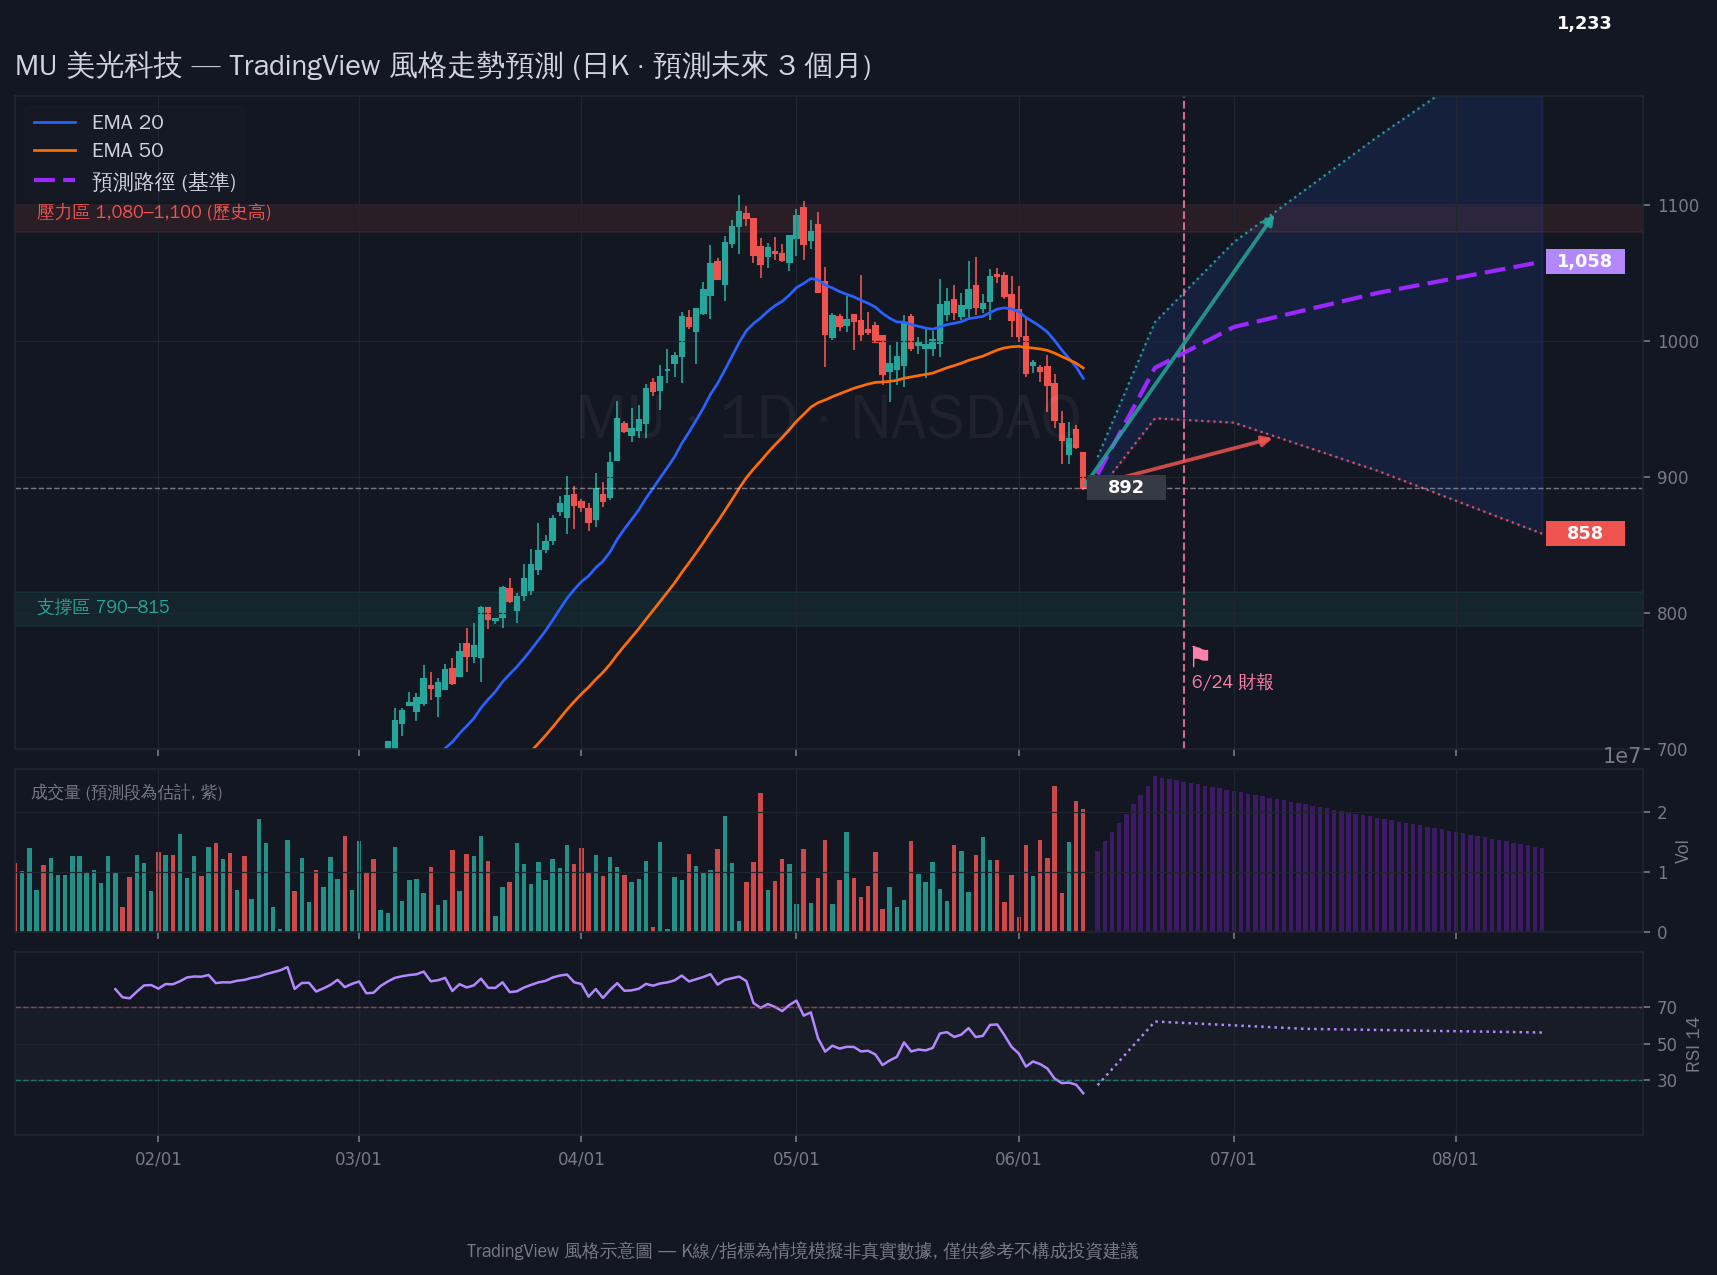
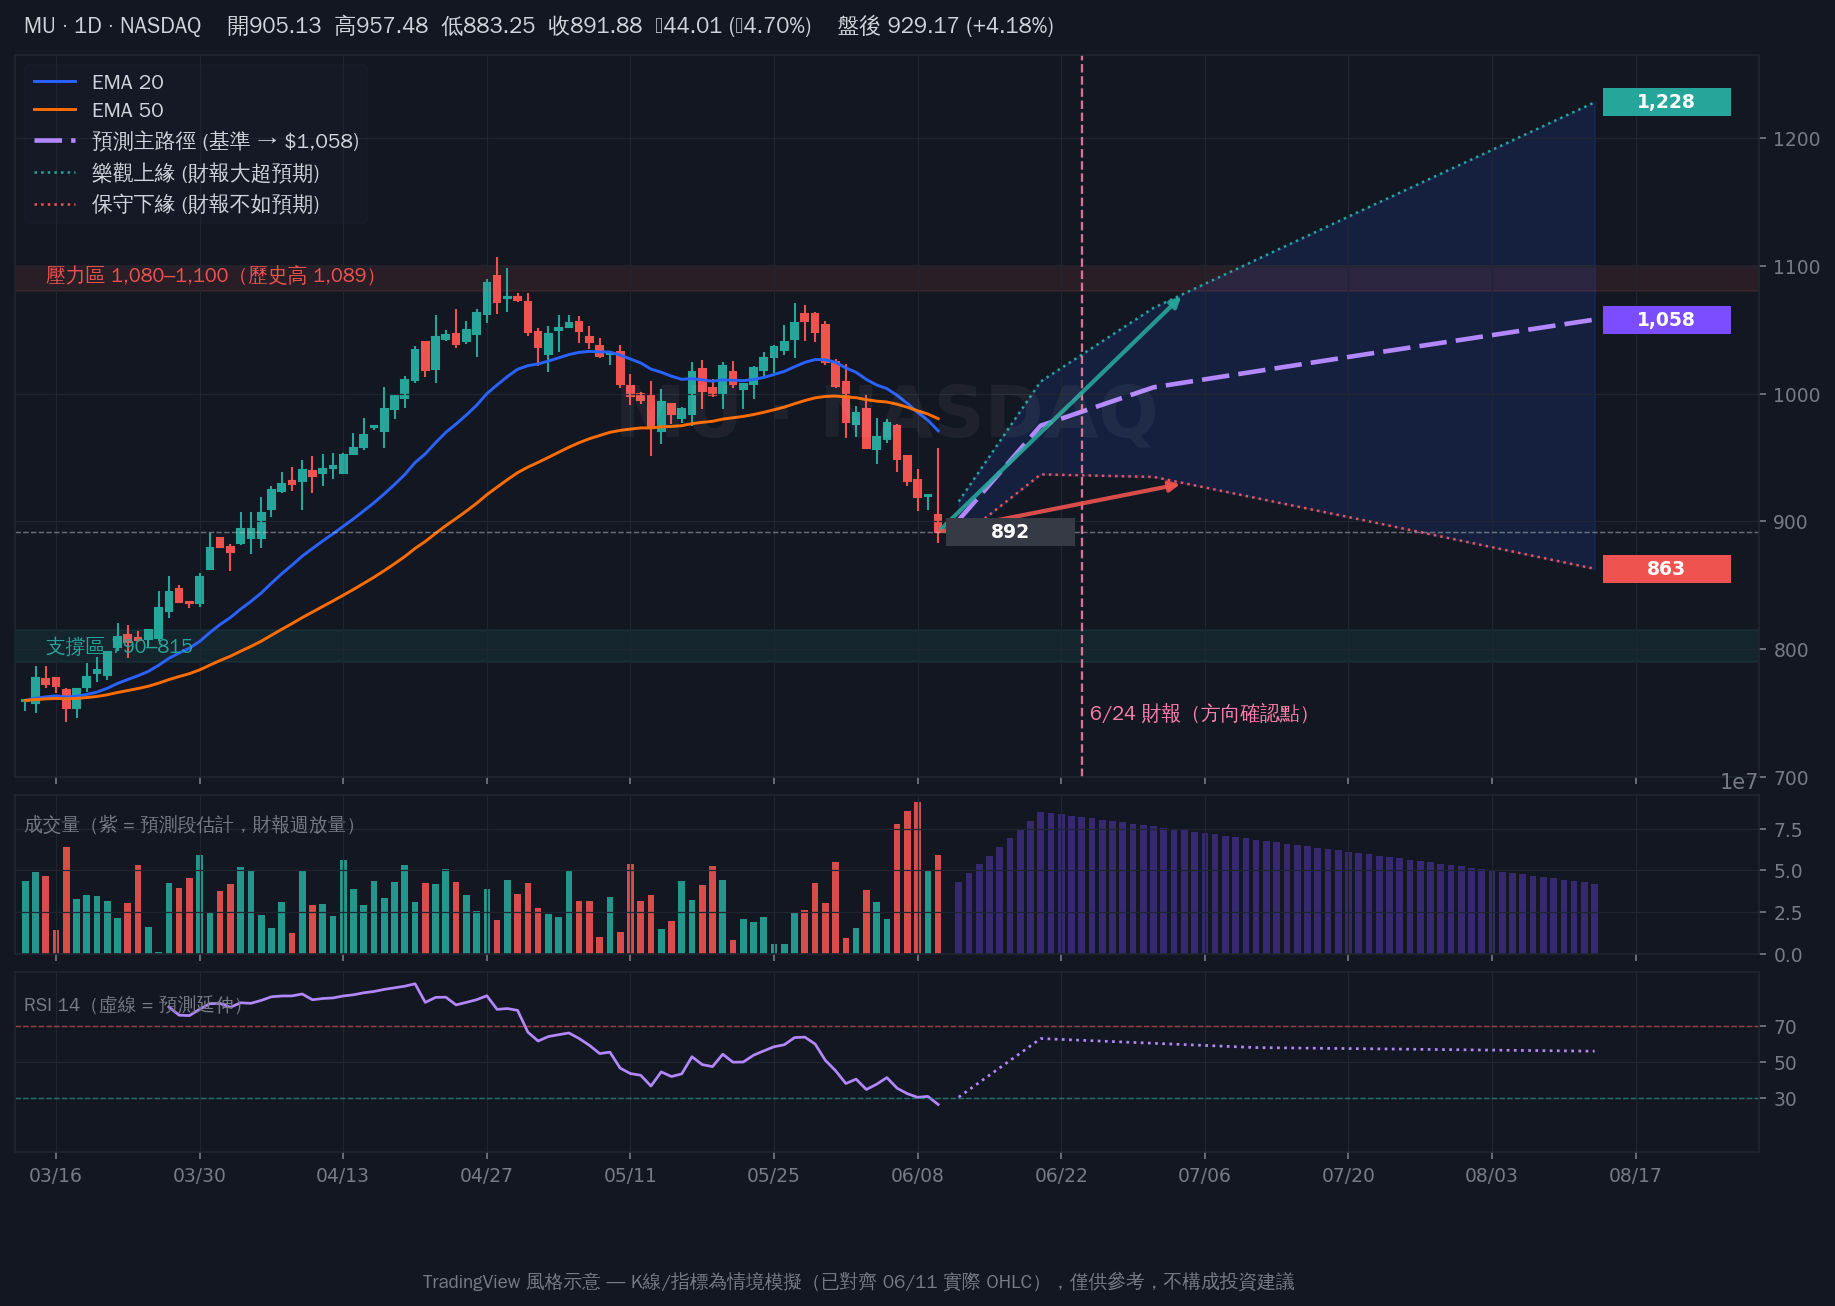
Improve TradingView-style chart: OHLC info bar, aligned to actual 06/11 data, clearer projection cone
https://claude.ai/code/session_017kWTyHSnSZPHuG8oZynbm9

diff --git a/forecast_mu_tradingview.py b/forecast_mu_tradingview.py
@@ -1,167 +1,157 @@
 # -*- coding: utf-8 -*-
-"""MU 美光科技 — TradingView 風格 走勢預測圖
-   日K蠟燭 + EMA20/50 + 成交量 + RSI + 預測投影(forecast projection)"""
+"""MU 美光科技 — TradingView 風格走勢預測 v2
+   日K + EMA20/50 + 成交量 + RSI + 預測投影錐 + OHLC資訊列"""
 import numpy as np
 import matplotlib
 matplotlib.use("Agg")
 import matplotlib.pyplot as plt
 import matplotlib.dates as mdates
-from matplotlib.patches import Rectangle, FancyArrow, Polygon
+from matplotlib.patches import Rectangle
 from matplotlib.font_manager import FontProperties
 from datetime import datetime, timedelta
 
 zh = FontProperties(fname="/usr/share/fonts/truetype/wqy/wqy-zenhei.ttc")
 
-# ===== TradingView 配色 =====
-BG     = "#131722"   # 背景
-GRID   = "#1f2630"
-UP     = "#26a69a"   # 漲(綠)
-DOWN   = "#ef5350"   # 跌(紅)
-TXT    = "#d1d4dc"
-SUB    = "#787b86"
-EMA20C = "#2962ff"
-EMA50C = "#ff6d00"
+BG, GRID = "#131722", "#1f2630"
+UP, DOWN = "#26a69a", "#ef5350"
+TXT, SUB = "#d1d4dc", "#787b86"
 
-# ===== 1) 生成歷史日K (近 ~150 交易日, 還原到現價 891.88) =====
+# ===== 歷史日K: 近 90 個交易日, 收斂到實際數據 (高1089 -> 現價891.88) =====
 np.random.seed(11)
-n_hist = 150
+n_hist = 90
 today = datetime(2026, 6, 11)
 hist_dates = [today - timedelta(days=(n_hist - i)) for i in range(n_hist)]
-# 基準路徑: 從 ~480 漲到歷史高 1089 再回落到 891.88
-ax_x = [0, 40, 75, 100, 120, 135, 149]
-ax_y = [470, 640, 860, 1089, 980, 1040, 891.88]
+ax_x = [0, 25, 45, 60, 75, 89]
+ax_y = [760, 920, 1089, 980, 1040, 891.88]
 mid = np.interp(np.arange(n_hist), ax_x, ax_y)
 close = np.zeros(n_hist); close[0] = mid[0]
 for i in range(1, n_hist):
-    drift = (mid[i] - close[i-1]) * 0.35
-    close[i] = close[i-1] + drift + np.random.normal(0, mid[i]*0.012)
+    close[i] = close[i-1] + (mid[i] - close[i-1]) * 0.4 + np.random.normal(0, mid[i] * 0.011)
 close[-1] = 891.88
-op = np.concatenate([[close[0]], close[:-1]]) + np.random.normal(0, 4, n_hist)
-hi = np.maximum(op, close) + np.abs(np.random.normal(0, mid*0.010))
-lo = np.minimum(op, close) - np.abs(np.random.normal(0, mid*0.010))
-vol = np.abs(np.random.normal(1, 0.4, n_hist)) * 1e7
-vol[-6:] *= 1.8  # 近期放量
+op = np.concatenate([[close[0]], close[:-1]]) + np.random.normal(0, 3.5, n_hist)
+op[-1] = 905.13                                   # 今開 (對齊截圖)
+hi = np.maximum(op, close) + np.abs(np.random.normal(0, mid * 0.009))
+lo = np.minimum(op, close) - np.abs(np.random.normal(0, mid * 0.009))
+hi[-1], lo[-1] = 957.48, 883.25                    # 今日最高/最低 (對齊截圖)
+vol = np.abs(np.random.normal(1, 0.4, n_hist)) * 3.5e7
+vol[-5:] *= 1.7
 
-# ===== 2) 預測投影 (未來 ~63 交易日 ≈ 3個月) =====
+# ===== 預測投影 (未來 63 交易日 ≈ 3個月) =====
 n_fut = 63
-fut_dates = [today + timedelta(days=i+1) for i in range(n_fut)]
+fut_dates = [today + timedelta(days=i + 1) for i in range(n_fut)]
 ff = np.arange(1, n_fut + 1)
 p0 = 891.88
-# TradingView forecast: 主預測路徑 + 上下緣(信賴帶)
-main = np.interp(ff, [0, 9, 20, 40, 63], [p0, 980, 1010, 1035, 1058])
-up_band  = main + np.interp(ff, [0, 63], [10, 175])   # 漸開的上緣
-dn_band  = main - np.interp(ff, [0, 63], [10, 200])   # 漸開的下緣
+main = np.interp(ff, [0, 9, 20, 40, 63], [p0, 975, 1005, 1030, 1058])
+up_b = main + np.interp(ff, [0, 63], [12, 170])
+dn_b = main - np.interp(ff, [0, 63], [12, 195])
 
-# ===== 指標: EMA & RSI (用 close) =====
 def ema(a, span):
-    k = 2/(span+1); out = np.zeros_like(a); out[0] = a[0]
-    for i in range(1, len(a)): out[i] = a[i]*k + out[i-1]*(1-k)
-    return out
-ema20 = ema(close, 20); ema50 = ema(close, 50)
+    k = 2 / (span + 1); o = np.zeros_like(a); o[0] = a[0]
+    for i in range(1, len(a)): o[i] = a[i] * k + o[i-1] * (1 - k)
+    return o
+ema20, ema50 = ema(close, 20), ema(close, 50)
+
 def rsi(a, n=14):
-    d = np.diff(a); g = np.where(d>0,d,0); l = np.where(d<0,-d,0)
+    d = np.diff(a); g = np.where(d > 0, d, 0); l = np.where(d < 0, -d, 0)
     ag = np.zeros_like(a); al = np.zeros_like(a)
     ag[n] = g[:n].mean(); al[n] = l[:n].mean()
-    for i in range(n+1, len(a)):
-        ag[i] = (ag[i-1]*(n-1)+g[i-1])/n; al[i] = (al[i-1]*(n-1)+l[i-1])/n
-    rs = ag/np.where(al==0,1e-9,al); r = 100-100/(1+rs); r[:n]=np.nan; return r
+    for i in range(n + 1, len(a)):
+        ag[i] = (ag[i-1] * (n-1) + g[i-1]) / n
+        al[i] = (al[i-1] * (n-1) + l[i-1]) / n
+    r = 100 - 100 / (1 + ag / np.where(al == 0, 1e-9, al)); r[:n] = np.nan
+    return r
 rsi14 = rsi(close)
 
-# ===== 繪圖框架 =====
-fig = plt.figure(figsize=(14, 9), dpi=150)
+# ===== 版面 =====
+fig = plt.figure(figsize=(15, 9.5), dpi=150)
 fig.patch.set_facecolor(BG)
-gs = fig.add_gridspec(3, 1, height_ratios=[3.2, 0.8, 0.9], hspace=0.06)
-axP = fig.add_subplot(gs[0]); axV = fig.add_subplot(gs[1], sharex=axP); axR = fig.add_subplot(gs[2], sharex=axP)
+gs = fig.add_gridspec(3, 1, height_ratios=[3.4, 0.75, 0.85], hspace=0.05)
+axP = fig.add_subplot(gs[0])
+axV = fig.add_subplot(gs[1], sharex=axP)
+axR = fig.add_subplot(gs[2], sharex=axP)
 for a in (axP, axV, axR):
-    a.set_facecolor(BG)
-    a.grid(color=GRID, lw=0.6)
-    a.tick_params(colors=SUB, labelsize=8)
+    a.set_facecolor(BG); a.grid(color=GRID, lw=0.6)
+    a.tick_params(colors=SUB, labelsize=9)
     for s in a.spines.values(): s.set_color(GRID)
     a.yaxis.tick_right(); a.yaxis.set_label_position("right")
 
-xh = mdates.date2num(hist_dates)
-xf = mdates.date2num(fut_dates)
-cw = 0.62
+xh, xf = mdates.date2num(hist_dates), mdates.date2num(fut_dates)
+cw = 0.65
 
-# --- 蠟燭 ---
 for xi, o, c, h, l in zip(xh, op, close, hi, lo):
     col = UP if c >= o else DOWN
-    axP.vlines(xi, l, h, color=col, lw=0.8)
-    axP.add_patch(Rectangle((xi-cw/2, min(o,c)), cw, abs(c-o) or 0.4, facecolor=col, edgecolor=col))
+    axP.vlines(xi, l, h, color=col, lw=1.0)
+    axP.add_patch(Rectangle((xi - cw/2, min(o, c)), cw, abs(c - o) or 0.5, facecolor=col, edgecolor=col))
 
-# --- EMA ---
-axP.plot(xh, ema20, color=EMA20C, lw=1.3, label="EMA 20")
-axP.plot(xh, ema50, color=EMA50C, lw=1.3, label="EMA 50")
+axP.plot(xh, ema20, color="#2962ff", lw=1.4, label="EMA 20")
+axP.plot(xh, ema50, color="#ff6d00", lw=1.4, label="EMA 50")
 
-# --- 預測投影帶 (forecast cone) ---
-axP.fill_between(xf, dn_band, up_band, color="#2962ff", alpha=0.12, zorder=1)
-axP.plot(xf, main, color="#9c27ff", lw=2.0, ls=(0,(5,2)), label="預測路徑 (基準)")
-axP.plot(xf, up_band, color=UP, lw=1.1, ls=":", alpha=0.9)
-axP.plot(xf, dn_band, color=DOWN, lw=1.1, ls=":", alpha=0.9)
-# 預測終點標籤 (TradingView 價籤樣式)
-for y, col in [(up_band[-1], UP), (main[-1], "#b388ff"), (dn_band[-1], DOWN)]:
-    axP.add_patch(Rectangle((xf[-1]+0.5, y-9), 11, 18, facecolor=col, edgecolor="none", zorder=5))
-    axP.text(xf[-1]+6, y, f"{y:,.0f}", color="#fff", fontsize=8.5, ha="center", va="center", zorder=6, fontweight="bold")
+# 預測錐
+axP.fill_between(xf, dn_b, up_b, color="#2962ff", alpha=0.13, zorder=1)
+axP.plot(xf, main, color="#b388ff", lw=2.2, ls=(0, (6, 2)), label="預測主路徑 (基準 → $1,058)")
+axP.plot(xf, up_b, color=UP, lw=1.2, ls=":", label="樂觀上緣 (財報大超預期)")
+axP.plot(xf, dn_b, color=DOWN, lw=1.2, ls=":", label="保守下緣 (財報不如預期)")
 
-# --- 預測分歧箭頭 (TradingView projection tool 風格) ---
-axP.annotate("", xy=(xf[25], up_band[25]), xytext=(xh[-1], close[-1]),
-             arrowprops=dict(arrowstyle="-|>", color=UP, lw=1.8, alpha=0.85))
-axP.annotate("", xy=(xf[25], dn_band[25]), xytext=(xh[-1], close[-1]),
-             arrowprops=dict(arrowstyle="-|>", color=DOWN, lw=1.8, alpha=0.85))
+# 多空分歧箭頭
+axP.annotate("", xy=(xf[22], up_b[22]), xytext=(xh[-1], close[-1]),
+             arrowprops=dict(arrowstyle="-|>", color=UP, lw=2.0, alpha=0.9))
+axP.annotate("", xy=(xf[22], dn_b[22]), xytext=(xh[-1], close[-1]),
+             arrowprops=dict(arrowstyle="-|>", color=DOWN, lw=2.0, alpha=0.9))
 
-# --- 現價線 + 標籤 ---
-axP.axhline(p0, color=TXT, lw=0.7, ls="--", alpha=0.5)
-axP.add_patch(Rectangle((xh[-1]+0.5, p0-9), 11, 18, facecolor="#363a45", edgecolor="none", zorder=5))
-axP.text(xh[-1]+6, p0, f"{p0:,.0f}", color="#fff", fontsize=8.5, ha="center", va="center", zorder=6, fontweight="bold")
+# 價籤
+def tag(axx, y, col, x_):
+    axP.add_patch(Rectangle((x_ + 0.8, y - 11), 12.5, 22, facecolor=col, edgecolor="none", zorder=5))
+    axP.text(x_ + 7, y, f"{y:,.0f}", color="#fff", fontsize=9, ha="center", va="center",
+             zorder=6, fontweight="bold")
+for y, col in [(up_b[-1], UP), (main[-1], "#7c4dff"), (dn_b[-1], DOWN)]:
+    tag(axP, y, col, xf[-1])
+axP.axhline(p0, color=TXT, lw=0.7, ls="--", alpha=0.45)
+tag(axP, p0, "#363a45", xh[-1])
 
-# --- 支撐壓力區 (TradingView 矩形區間) ---
+# 支撐 / 壓力區
 axP.axhspan(1080, 1100, color=DOWN, alpha=0.10)
-axP.text(xh[3], 1090, "壓力區 1,080–1,100 (歷史高)", color=DOWN, fontsize=8.5, fontproperties=zh)
+axP.text(xh[2], 1088, "壓力區 1,080–1,100（歷史高 1,089）", color=DOWN, fontsize=9.5, fontproperties=zh)
 axP.axhspan(790, 815, color=UP, alpha=0.10)
-axP.text(xh[3], 800, "支撐區 790–815", color=UP, fontsize=8.5, fontproperties=zh)
+axP.text(xh[2], 798, "支撐區 790–815", color=UP, fontsize=9.5, fontproperties=zh)
 
-# --- 財報事件標記 ---
+# 財報事件
 earn = mdates.date2num(datetime(2026, 6, 24))
-axP.axvline(earn, color="#ff80ab", lw=1.0, ls="--", alpha=0.8)
-axP.text(earn+0.4, 760, "⚑", color="#ff80ab", fontsize=14)
-axP.text(earn+1.2, 745, "6/24 財報", color="#ff80ab", fontsize=8.5, fontproperties=zh)
+axP.axvline(earn, color="#ff80ab", lw=1.1, ls="--", alpha=0.85)
+axP.text(earn + 0.8, 745, "6/24 財報（方向確認點）", color="#ff80ab", fontsize=9.5, fontproperties=zh)
 
-# --- 浮水印 (TradingView 風格) ---
-axP.text(0.5, 0.5, "MU · 1D · NASDAQ", transform=axP.transAxes, fontproperties=zh,
-         fontsize=30, color="#ffffff", alpha=0.05, ha="center", va="center", fontweight="bold")
-axP.set_title("MU 美光科技 — TradingView 風格走勢預測 (日K · 預測未來 3 個月)",
-              fontproperties=zh, color=TXT, fontsize=14, pad=10, loc="left")
-axP.legend(loc="upper left", prop=zh, fontsize=9, framealpha=0.2,
+# OHLC 資訊列 (TradingView 頂欄)
+info = ("MU · 1D · NASDAQ    開905.13  高957.48  低883.25  收891.88  −44.01 (−4.70%)    盤後 929.17 (+4.18%)")
+axP.text(0.005, 1.025, info, transform=axP.transAxes, fontproperties=zh, fontsize=10.5,
+         color=TXT, va="bottom")
+axP.text(0.5, 0.5, "MU · NASDAQ", transform=axP.transAxes, fontsize=34,
+         color="#fff", alpha=0.05, ha="center", va="center", fontweight="bold")
+axP.legend(loc="upper left", prop=zh, fontsize=9.5, framealpha=0.25,
            facecolor="#1c2230", edgecolor=GRID, labelcolor=TXT)
-axP.set_ylim(700, 1180)
+axP.set_ylim(700, 1265)
 
-# --- 成交量 ---
-vcol = [UP if c>=o else DOWN for o,c in zip(op, close)]
-axV.bar(xh, vol, width=cw, color=vcol, alpha=0.85)
-axV.bar(xf, np.interp(ff,[0,9,63],[1.2e7,2.6e7,1.4e7]), width=cw, color="#9c27ff", alpha=0.30)  # 預測量(虛)
-axV.set_ylabel("Vol", fontproperties=zh, color=SUB, fontsize=9)
-axV.text(0.01, 0.82, "成交量 (預測段為估計, 紫)", transform=axV.transAxes, fontproperties=zh, color=SUB, fontsize=8)
+# 成交量
+vcol = [UP if c >= o else DOWN for o, c in zip(op, close)]
+axV.bar(xh, vol, width=cw, color=vcol, alpha=0.9)
+axV.bar(xf, np.interp(ff, [0, 9, 63], [3.8e7, 8.5e7, 4.2e7]), width=cw, color="#7c4dff", alpha=0.35)
+axV.text(0.005, 0.78, "成交量（紫 = 預測段估計，財報週放量）", transform=axV.transAxes,
+         fontproperties=zh, color=SUB, fontsize=9)
 
-# --- RSI ---
-axR.plot(xh, rsi14, color="#b388ff", lw=1.2)
-# RSI 預測延伸
-rsi_fut = np.interp(ff, [0,9,30,63], [rsi14[-1], 62, 58, 56])
-axR.plot(xf, rsi_fut, color="#b388ff", lw=1.2, ls=":")
+# RSI
+axR.plot(xh, rsi14, color="#b388ff", lw=1.3)
+axR.plot(xf, np.interp(ff, [0, 9, 30, 63], [rsi14[-1], 63, 58, 56]), color="#b388ff", lw=1.3, ls=":")
 axR.axhline(70, color=DOWN, lw=0.7, ls="--", alpha=0.6)
 axR.axhline(30, color=UP, lw=0.7, ls="--", alpha=0.6)
-axR.axhspan(30, 70, color="#787b86", alpha=0.05)
-axR.set_ylim(0, 100); axR.set_yticks([30,50,70])
-axR.set_ylabel("RSI 14", fontproperties=zh, color=SUB, fontsize=9)
+axR.set_ylim(0, 100); axR.set_yticks([30, 50, 70])
+axR.text(0.005, 0.78, "RSI 14（虛線 = 預測延伸）", transform=axR.transAxes,
+         fontproperties=zh, color=SUB, fontsize=9)
 
-# --- X 軸 ---
 axR.xaxis.set_major_formatter(mdates.DateFormatter("%m/%d"))
-axR.xaxis.set_major_locator(mdates.MonthLocator())
+axR.xaxis.set_major_locator(mdates.WeekdayLocator(byweekday=mdates.MO, interval=2))
 plt.setp(axP.get_xticklabels(), visible=False)
 plt.setp(axV.get_xticklabels(), visible=False)
-axR.set_xlim(xh[0], xf[-1]+14)
-plt.setp(axR.get_xticklabels(), rotation=0, fontsize=8)
+axR.set_xlim(xh[0] - 1, xf[-1] + 16)
 
-fig.text(0.5, 0.02, "TradingView 風格示意圖 — K線/指標為情境模擬非真實數據, 僅供參考不構成投資建議",
-         fontproperties=zh, fontsize=8.5, color=SUB, ha="center")
+fig.text(0.5, 0.015, "TradingView 風格示意 — K線/指標為情境模擬（已對齊 06/11 實際 OHLC），僅供參考，不構成投資建議",
+         fontproperties=zh, fontsize=9, color=SUB, ha="center")
 plt.savefig("/home/user/nvidia-tracker/mu_tradingview.png", facecolor=BG, bbox_inches="tight")
 print("saved")